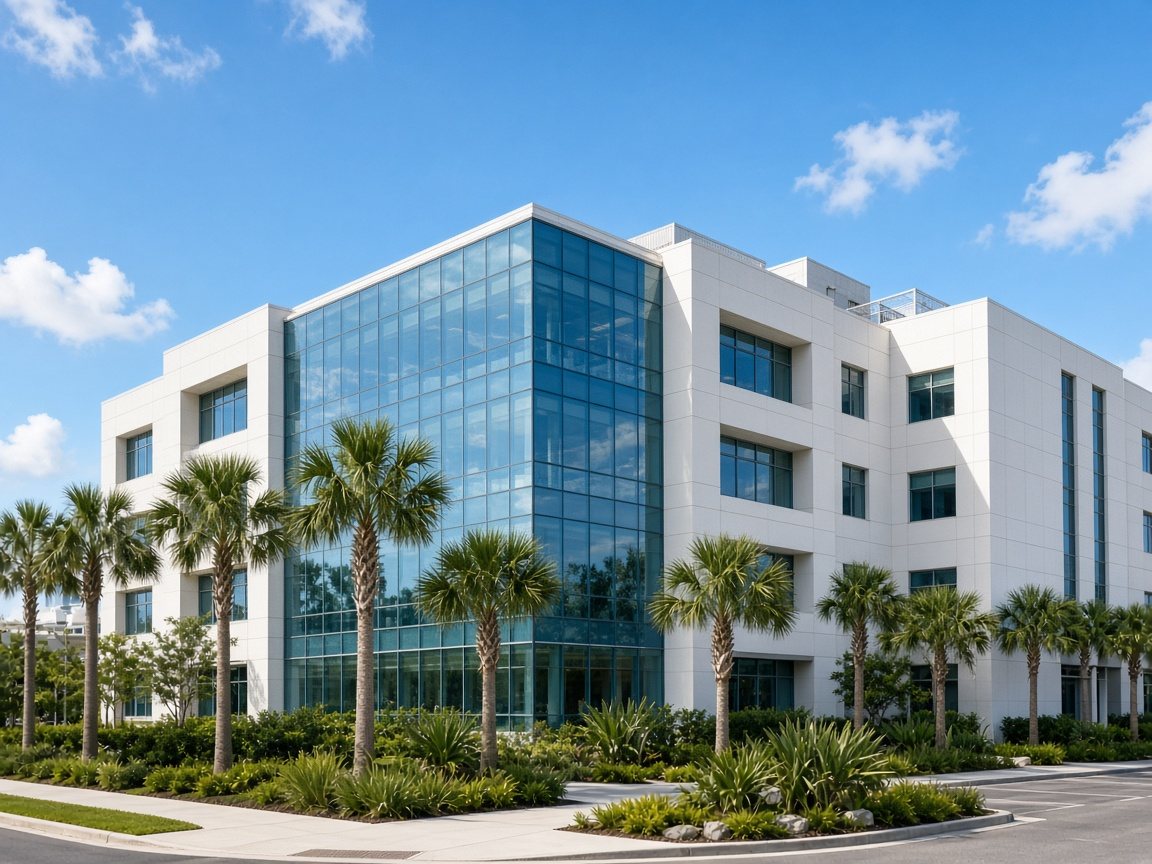
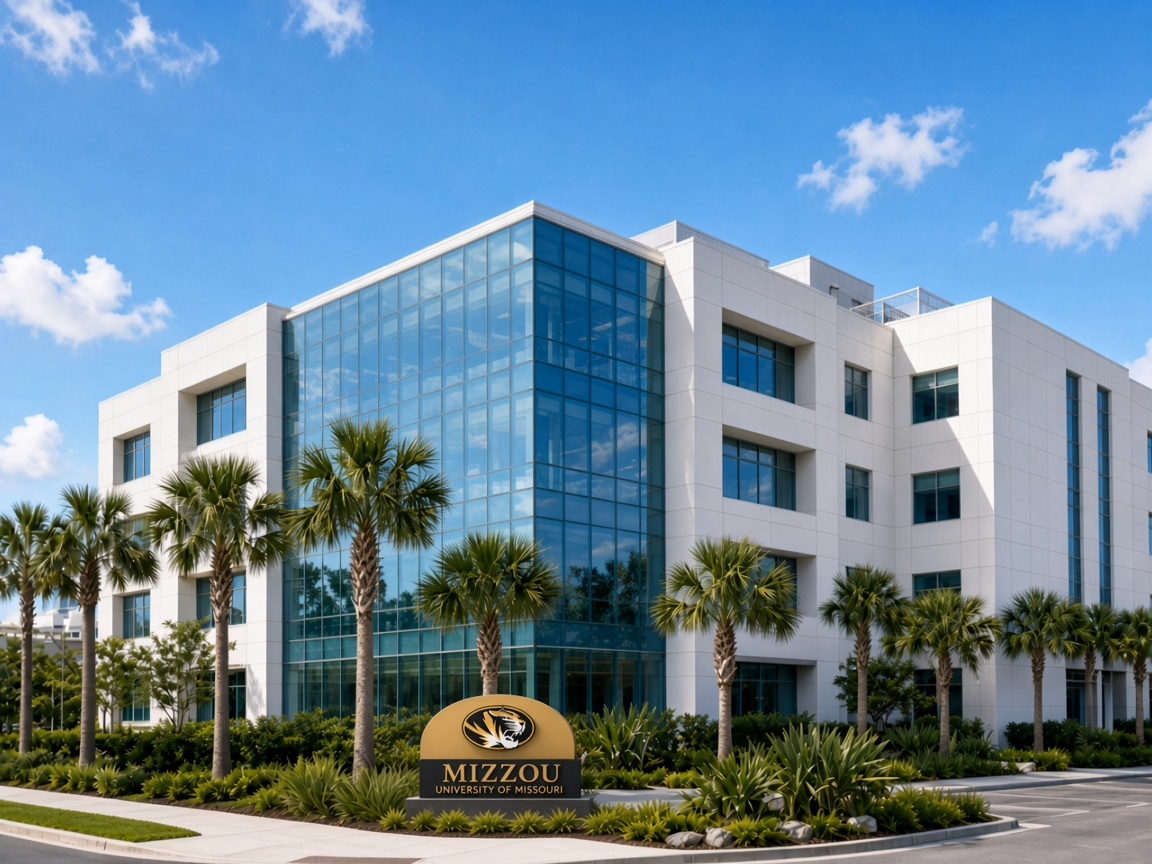
Refactor CommandCenter component: remove unused state variables, simplify toolbar layout, and update main hospital image with versioning for cache management.

diff --git a/frontend/src/dashboard/CommandCenter.jsx b/frontend/src/dashboard/CommandCenter.jsx
@@ -191,7 +191,6 @@ export default function CommandCenter() {
   const [floorId, setFloorId] = useState("F3");
   const [selectedId, setSelectedId] = useState("ICU-304");
   const [hover, setHover] = useState(null);
-  const [deptFilter, setDeptFilter] = useState("all");
   const [query, setQuery] = useState("");
   const [searchOpen, setSearchOpen] = useState(false);
   const [nav, setNav] = useState("live");
@@ -201,7 +200,6 @@ export default function CommandCenter() {
   const [surgeOn, setSurgeOn] = useState(false);
   const [badge, setBadge] = useState(1);
   const [bellOpen, setBellOpen] = useState(false);
-  const [layersOpen, setLayersOpen] = useState(false);
   const [showBeds, setShowBeds] = useState(true);
   const [showLabels, setShowLabels] = useState(true);
   const [zoom, setZoom] = useState(1.25);
@@ -230,7 +228,6 @@ export default function CommandCenter() {
         setElevatorOpen(false);
         setSearchOpen(false);
         setBellOpen(false);
-        setLayersOpen(false);
       }
     }
     window.addEventListener("keydown", onKey);
@@ -249,7 +246,6 @@ export default function CommandCenter() {
   function goToFloor(id) {
     setFloorId(id);
     setSelectedId(null);
-    setDeptFilter("all");
     setElevatorOpen(false);
     setHover(null);
     setPan({ x: 0, y: 0 });
@@ -260,7 +256,6 @@ export default function CommandCenter() {
   function openHit(hit) {
     setFloorId(hit.floor.id);
     setSelectedId(hit.room.id);
-    setDeptFilter("all");
     setNav("live");
     setNote(null);
     setElevatorOpen(false);
@@ -451,7 +446,7 @@ export default function CommandCenter() {
 
           <div className="campus">
             <div className="campus-copy">
-              <img src="/main-hospital.jpg" alt="Main Hospital" />
+              <img src="/main-hospital.jpg?v=3" alt="Main Hospital" />
               <strong>Main Hospital</strong>
             </div>
             <div className="campus-floors" role="group" aria-label="Floors">
@@ -475,69 +470,6 @@ export default function CommandCenter() {
         </aside>
 
         <main className="stage">
-          <div className="toolbar">
-            <button type="button" className="tool-select" disabled>
-              Main Hospital
-            </button>
-            <label className="tool-select">
-              <span className="sr">Floor</span>
-              <select value={floor.id} onChange={(event) => goToFloor(event.target.value)} aria-label="Floor">
-                {hospital.map((level) => (
-                  <option key={level.id} value={level.id}>
-                    {level.name} — {level.subtitle}
-                  </option>
-                ))}
-              </select>
-            </label>
-            <label className="tool-select">
-              <span className="sr">Department</span>
-              <select
-                value={deptFilter}
-                onChange={(event) => setDeptFilter(event.target.value)}
-                aria-label="Department"
-              >
-                <option value="all">All departments</option>
-                {summary.departments.map((dept) => (
-                  <option key={dept.id} value={dept.id}>
-                    {dept.label}
-                  </option>
-                ))}
-              </select>
-            </label>
-            <div className="mode">
-              <button type="button" className="is-on">
-                2D
-              </button>
-              <button
-                type="button"
-                onClick={() => {
-                  setNav("settings");
-                  setNote(NOTES.three);
-                  setElevatorOpen(false);
-                }}
-              >
-                3D
-              </button>
-            </div>
-            <div className="layers-wrap">
-              <button type="button" className="tool-select" onClick={() => setLayersOpen((open) => !open)}>
-                Layers
-              </button>
-              {layersOpen && (
-                <div className="layers-pop">
-                  <label>
-                    <input type="checkbox" checked={showBeds} onChange={() => setShowBeds((v) => !v)} />
-                    Beds and status
-                  </label>
-                  <label>
-                    <input type="checkbox" checked={showLabels} onChange={() => setShowLabels((v) => !v)} />
-                    Room names
-                  </label>
-                </div>
-              )}
-            </div>
-          </div>
-
           <div
             className={rightOpen ? "map-stage has-detail" : "map-stage"}
             onClick={() => {
@@ -579,7 +511,7 @@ export default function CommandCenter() {
             <div className="map-canvas">
             <FloorPlan
               floor={floor}
-              deptFilter={deptFilter}
+              deptFilter="all"
               selectedId={selectedId}
               showBeds={showBeds}
               showLabels={showLabels}

diff --git a/frontend/src/dashboard/dashboard.css b/frontend/src/dashboard/dashboard.css
@@ -501,53 +501,9 @@ button, input, select { font: inherit; color: inherit; }
   min-height: 0;
   height: 100%;
   display: grid;
-  grid-template-rows: 58px minmax(0, 1fr);
-  padding: 10px 12px 12px;
-  gap: 10px;
+  grid-template-rows: minmax(0, 1fr);
+  padding: 12px;
 }
-
-.toolbar {
-  display: flex;
-  align-items: center;
-  gap: 8px;
-  background: white;
-  border: 1px solid var(--line);
-  border-radius: 14px;
-  padding: 8px;
-}
-
-.tool-select, .toolbar select {
-  height: 36px;
-  border-radius: 10px;
-  border: 1px solid var(--line);
-  background: white;
-  padding: 0 10px;
-}
-
-.toolbar select { border: 0; height: 34px; background: transparent; }
-.tool-select { display: inline-flex; align-items: center; cursor: pointer; }
-
-.mode {
-  margin-left: auto;
-  display: flex;
-  background: #f1f5f9;
-  border-radius: 10px;
-  padding: 3px;
-}
-
-.mode button {
-  border: 0;
-  background: transparent;
-  border-radius: 8px;
-  padding: 6px 12px;
-  cursor: pointer;
-}
-
-.mode button.is-on { background: var(--blue); color: white; }
-
-.layers-wrap { position: relative; }
-.layers-pop { width: 190px; left: auto; right: 0; padding: 8px; }
-.layers-pop label { flex-direction: row; align-items: center; gap: 8px; }
 
 .map-stage {
   position: relative;
